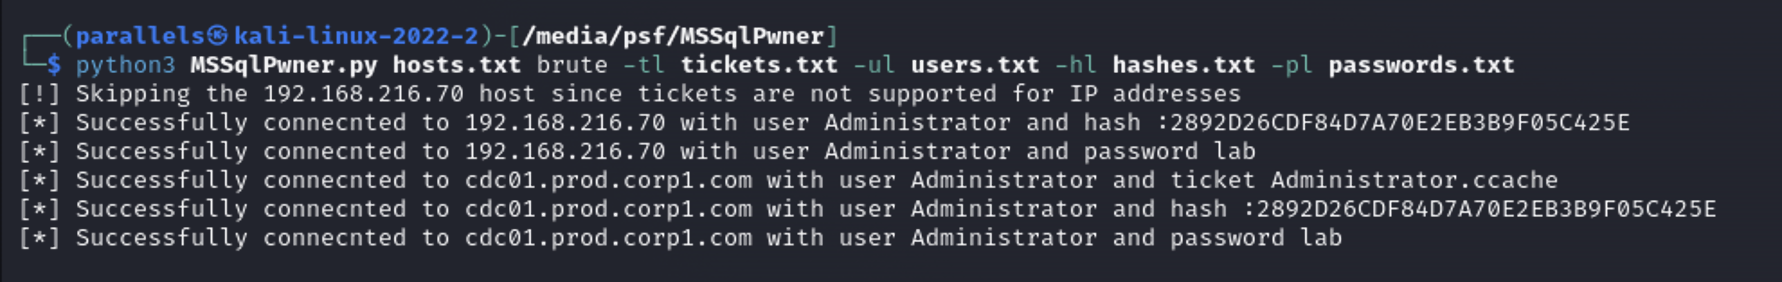
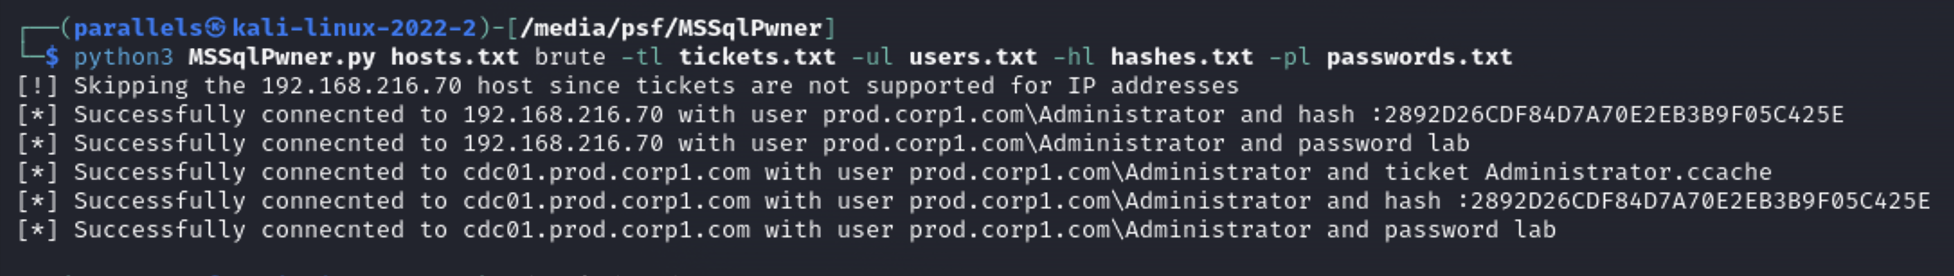
v1.3.2 released

Changed region(s): [[0.0, 0.058, 0.9877, 0.8986]]

diff --git a/playbooks/playbooks.py b/playbooks/playbooks.py
@@ -406,7 +406,8 @@ class Playbooks(Operations):
             mssql_client.options.windows_auth = True
         if mssql_client.connect(user, password, domain):
             LOG.setLevel(logging.INFO)
-            LOG.info(f"Successfully connecnted to {host} with user {user} and {auth_type} {cred}")
+            full_user = f"{domain}\\{user}" if domain else user
+            LOG.info(f"Successfully connected to {host} with user {full_user} and {auth_type} {cred}")
             return True
         LOG.setLevel(logging.DEBUG if self.debug else logging.INFO)
         return False
